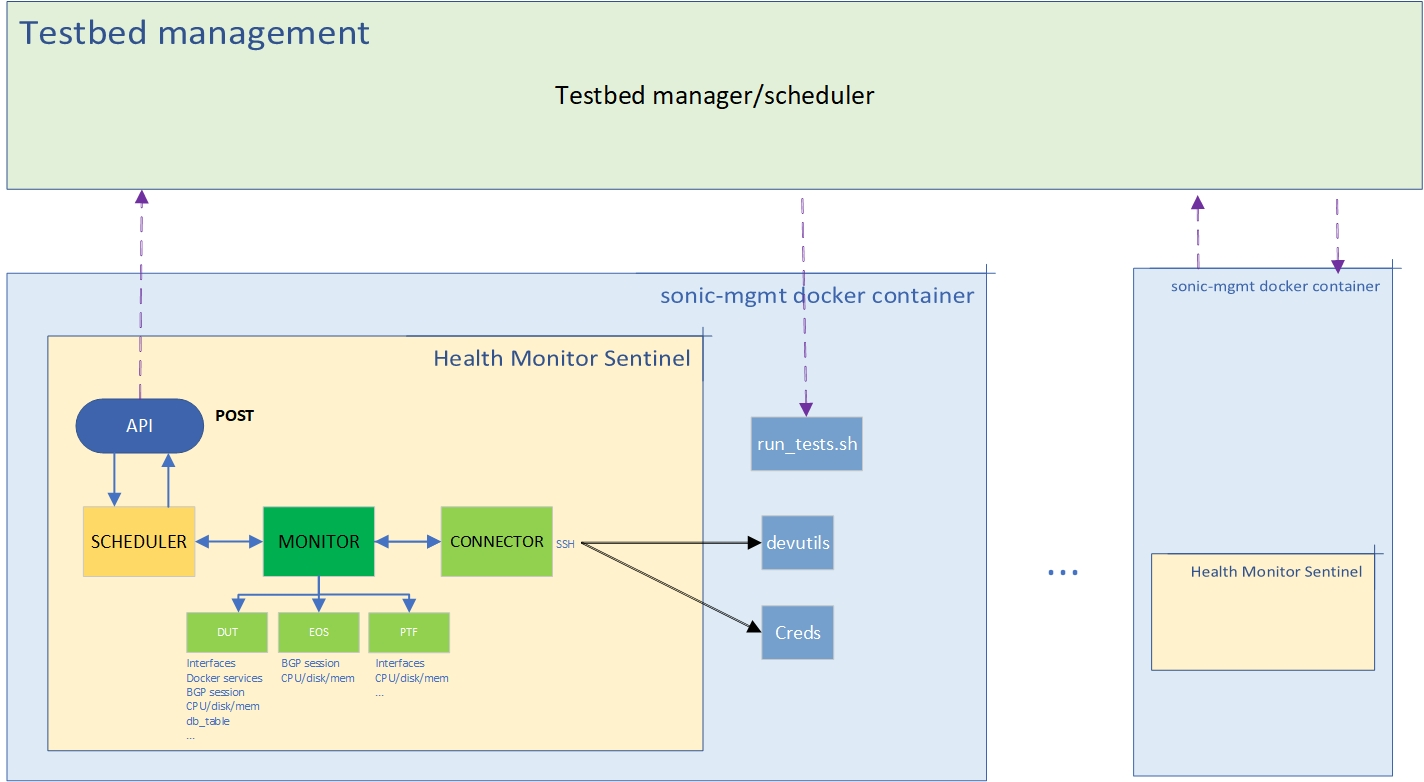
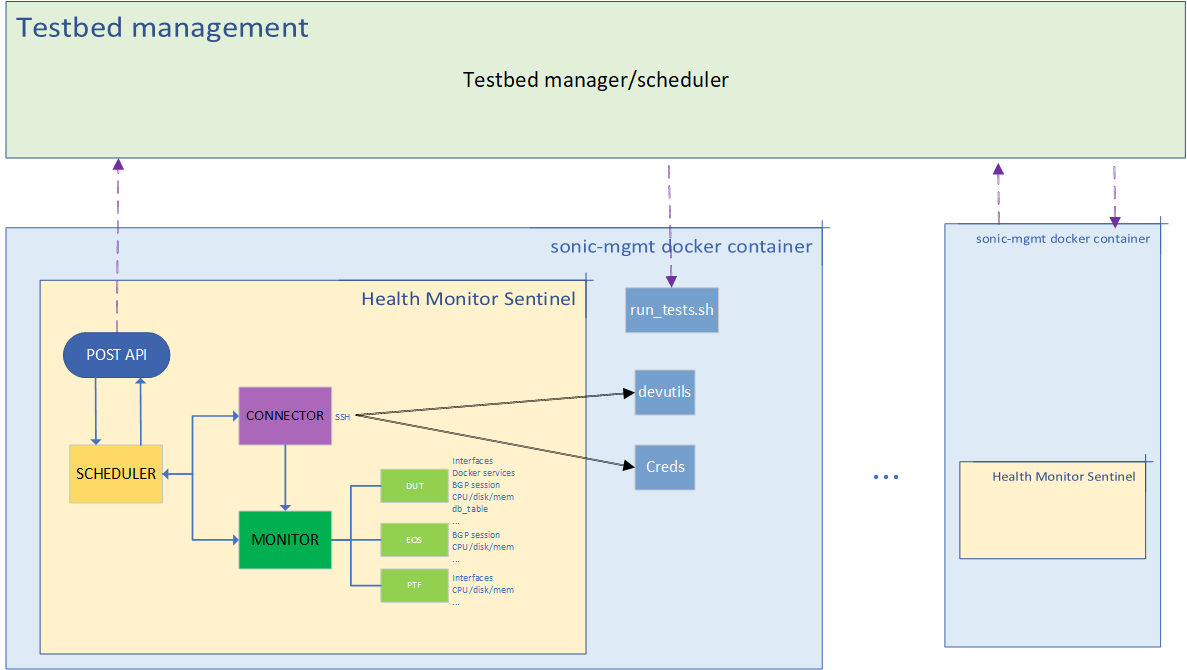
Update doc for more better view and add some correction

diff --git a/docs/testbed/README.testbed.Sentinel.md b/docs/testbed/README.testbed.Sentinel.md
@@ -1,19 +1,45 @@
 # Sentinel
 
-Currently, we don't have a system to monitor all devices of the testbed, including SONiC DUT, EOS neighbors and PTF. Testbed management which is a web tool to manage testbeds, developers use it to book testbed for development work, it also allocates corresponding testbeds for nightly test. It should have a monitor tool to collect health information for these devices and decide which testbeds are healthy and which are not, then can avoid nightly test running on an unhealth testbed.
-Sentinel is a service in sonic-mgmt container, which collects all kinds of health information from all devices of the testbed periodically. It levarages existing classes and functions to login to devices and run commands to show related information, then transforms the output of command to json format data and reports these data to testbed management finally. The process is running all the time to make sure to collect the latest information and aim to monitor the health status of testbed.
+Currently, we don't have a system to monitor all devices of the testbed, including SONiC DUT, EOS neighbors and PTF. Testbed management is a web tool for managing testbeds, developers use it to book testbed for development work, it also allocates corresponding testbeds for nightly test. 
+
+It should have a monitor tool to collect health information on these devices and decide which testbeds are healthy and which are not, and then avoid nightly test running on an unhealth testbed.
+
+Sentinel is such a service running in sonic-mgmt container that periodically collects various health information from all devices of the testbed. 
+
+It logs in to devices and runs commands to show relevant information, then transforms the output of commands into data in json format and finally reports these data to testbed management. The sentinel process is running all the time at background to ensure the latest health information is collected and aims to keep monitoring the health of testbed.
+
 
 # Design
-Sentinel will be deployed by testbed management. Once testbed is set up, testbed management will deploy sentinal service on host server for this testbed. And then sentinel will run as an endless service in sonic-mgmt docker container.
-It has 3 modules, including scheduler, connector and monitor. 
-1. Scheduler is responsible to get credential information of all devices with testbed name, then create one thread to start and maintain ssh connections for all devices, create another thread to collect related health information for all devices. It also reports all health data to testbed management with POST API. For credential part, this is the benefit of running sentinel in sonic-mgmt container, it can easily get credential information without having to send sensitive credential data with parameters.
-2. Connector is responsbile to login devices and maintain all ssh connections. When devices go down due to reboot or there is network issue, the ssh connections will be updated and monitor can't collect any data from these devices. If devices come back, their ssh connections will also be created again and monitor is able to collect health data too. SSH login part uses existing SSHClient class in devutils, it's another benefit to run sentinel in sonic-mgmt, it's easy to use libaries and modules in sonic-mgmt, doesn't have to write duplicated code here.
-3. Monitor is going to run different commands on different devices, then parse the output of commands to json format data. For CPU/memory/disk, these are common health data, it has to be collected on every device. For DUT, monitor collects docker services, bgp sessions and interfaces status additionally. For EOS neighbors, monitor collects bgp sessions and etc. This module can be enhanced by adding and parsing more health commands in the future.
+
+Sentinel will be deployed by testbed management. Once the testbed is set up, testbed management will deploy Sentinal service for this testbed on host server. Sentinel will then run as an endless service in sonic-mgmt docker container.
+
+It has 3 modules including scheduler, connector and monitor.
+
+* Scheduler is responsible to get credential information of all devices with testbed name. And then create two threads, one is to maintain ssh connections for all devices,  another thread to collect relevant health information.
+It also reports all health data to testbed management with POST API.
+For credential part, this is the benefit of running sentinel in sonic-mgmt container, it can easily get credential information without having to send sensitive credential data with parameters that we have to take into account if deploying it standalone.
+
+* Connector is responsbile to login devices and maintain all ssh connections. 
+When devices go down due to reboot or network issue, the ssh connections will be updated and monitor cannot collect any data from these devices. If devices come back up, their ssh connections will be recreated and monitor will be able to collect health data as well. SSH login part uses existing SSHClient class in devutils, this is another benefit to run sentinel in sonic-mgmt, it's easy to use libaries and modules in sonic-mgmt, we don't have to write duplicated code for same functions.
+
+* Monitor will run different commands on different devices, then parse the output of commands into json formatted data. 
+For CPU/memory/disk, these are common health data that must be collected on every device. 
+For DUT, monitor additionally collects docker services, bgp sessions and interfaces status. 
+For EOS neighbors, monitor collects bgp sessions, etc. 
+This module can be enhanced by adding and parsing more health commands in the future.
+
+
+# Framework
 
 The design framework of sentinel is shown in the following figure:
 ![Sentinel framework](./img/sentinel_framework.png)
 
+
+Testbed scheduler will also trigger `run_tests.sh` to run test cases on testbeds, it's the part of testbed scheduler implementation
+
+
 # Usage
+
 The basic usage does like this:
 
 ```
@@ -21,6 +47,8 @@ sudo python sentinel.py <testbed name> [-v]
 ```
 
 `testbed name` is `conf-name` in [ansible/testbed.yaml](https://github.com/Azure/sonic-mgmt/tree/master/ansible/testbed.yaml), it can be used to read credential, ip and hostname for DUT, PTF and EOS neighbors for this testbed.
+
+Specify `"-v"` for DEBUG level logging.
 
 sentinel log is saved in `/tmp/sentinel.log`
 
